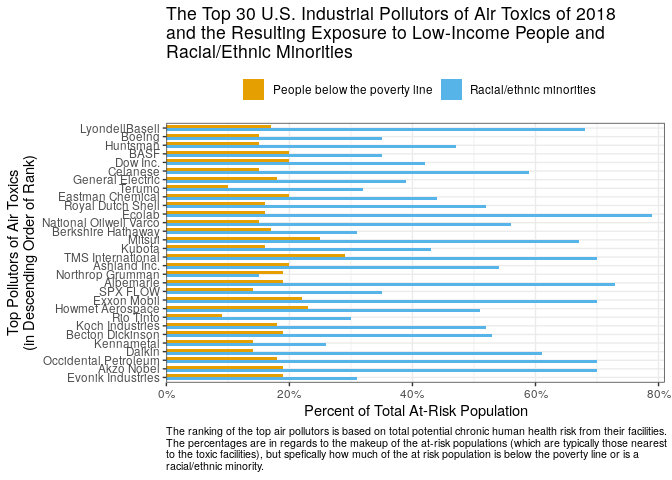
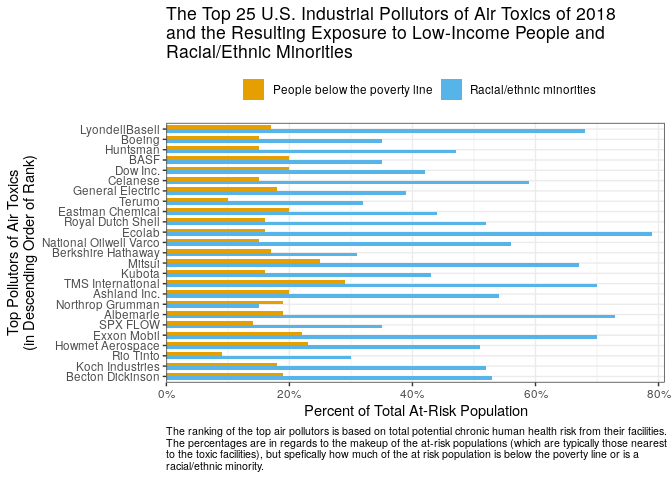
changed example two plot

Changed region(s): [[0.0625, 0.25, 0.9688, 0.8125], [0.3438, 0.0, 0.375, 0.0625], [0.875, 0.5625, 0.9062, 0.5938]]

diff --git a/README.md b/README.md
@@ -85,9 +85,9 @@ each subgroup makes up.
 
 ## Installation
 
-    #> Installing package into '/tmp/RtmpP5Zlyt/temp_libpath2a0b1b582d46'
+    #> Installing package into '/tmp/RtmpP5Zlyt/temp_libpath2a0bc76bcfc'
     #> (as 'lib' is unspecified)
-    #> Installing package into '/tmp/RtmpP5Zlyt/temp_libpath2a0b1b582d46'
+    #> Installing package into '/tmp/RtmpP5Zlyt/temp_libpath2a0bc76bcfc'
     #> (as 'lib' is unspecified)
     #> Warning: package 'topPolluters' is not available for this version of R
     #> 
@@ -163,7 +163,7 @@ filter(topPolluters, toxic.air.rank <= 50, greenhouse.rank <= 50, toxic.water.ra
 
 ``` r
 topPolluters %>%
-  filter(toxic.air.rank <= 30) %>%
+  filter(toxic.air.rank <= 25) %>%
   select(polluter, toxic.air.rank, toxic.air.poor, toxic.air.minority) %>%
   pivot_longer(
     cols = c(toxic.air.minority, toxic.air.poor),
@@ -181,7 +181,7 @@ topPolluters %>%
     expand = expansion(add = c(0, 2))
   ) +
   labs(
-    title = "The Top 30 U.S. Industrial Pollutors of Air Toxics of 2018\nand the Resulting Exposure to Low-Income People and\nRacial/Ethnic Minorities",
+    title = "The Top 25 U.S. Industrial Pollutors of Air Toxics of 2018\nand the Resulting Exposure to Low-Income People and\nRacial/Ethnic Minorities",
     caption = "The ranking of the top air pollutors is based on total potential chronic human health risk from their facilities.\nThe percentages are in regards to the makeup of the at-risk populations (which are typically those nearest\nto the toxic facilities), but spefically how much of the at risk population is below the poverty line or is a\nracial/ethnic minority.",
     x = "Top Pollutors of Air Toxics\n(in Descending Order of Rank)",
     y = "Percent of Total At-Risk Population"
